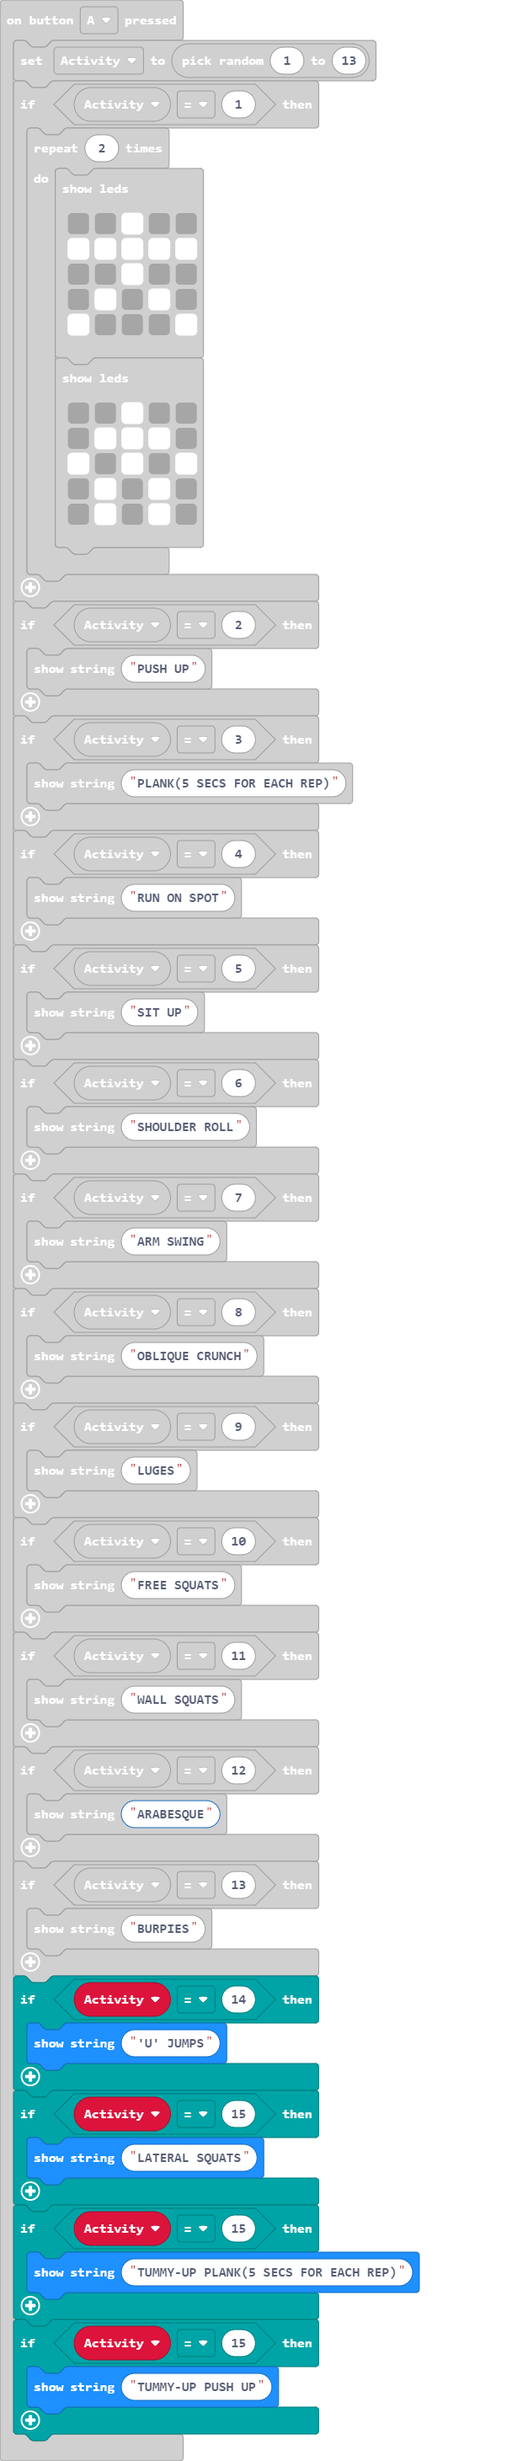
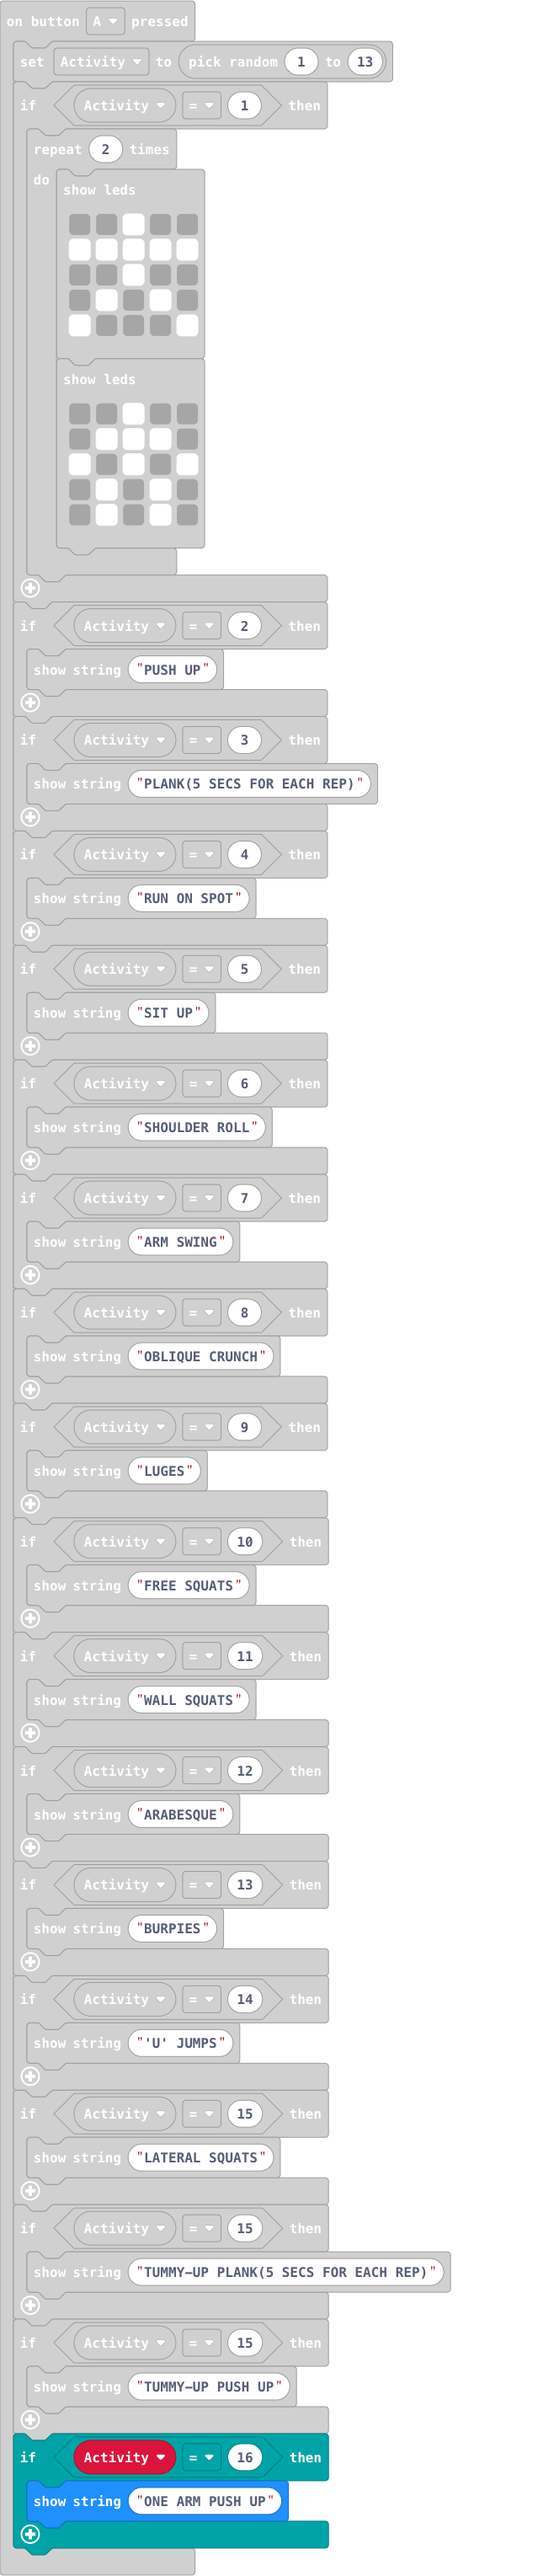
added exersise

Changed region(s): [[0.0, 0.0, 0.8372, 1.0], [0.6279, 0.0, 0.7475, 0.0311]]

diff --git a/main.ts b/main.ts
@@ -67,6 +67,9 @@ input.onButtonPressed(Button.A, function () {
     if (Activity == 15) {
         basic.showString("TUMMY-UP PUSH UP")
     }
+    if (Activity == 16) {
+        basic.showString("ONE ARM PUSH UP")
+    }
 })
 input.onButtonPressed(Button.B, function () {
     basic.showNumber(0)
